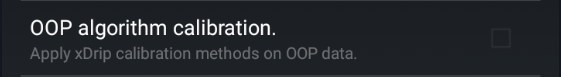
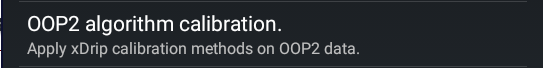
Changelog, OOP2
And catching up with previous changes

diff --git a/docs/changelog.md b/docs/changelog.md
@@ -1,0 +1,74 @@
+[ 2nd May 2022](https://github.com/NightscoutFoundation/xDrip/releases/tag/2022.05.02)	[Libre 2 native calibration](../use/misc/#oop2)
+
+[ 1st May 2022](https://github.com/NightscoutFoundation/xDrip/releases/tag/2022.05.01b)	More profile import handling/sounds work
+
+[ 1st May 2022](https://github.com/NightscoutFoundation/xDrip/releases/tag/2022.05.01)	Update profile import timezone handling
+
+[30th Apr 2022 ](https://github.com/NightscoutFoundation/xDrip/releases/tag/2022.04.30)	[Enable/disable AAPS import profile sounds](../use/interapp/#receiving-from-nsclient)
+
+[29th Apr 2022](https://github.com/NightscoutFoundation/xDrip/releases/tag/2022.04.29)	New Crowdin updates
+
+[28th Apr 2022](https://github.com/NightscoutFoundation/xDrip/releases/tag/2022.04.28)	[Import profile from AAPS](../use/predictions/#carb-ratio-and-insulin-sensitivity)
+
+[27th Apr 2022](https://github.com/NightscoutFoundation/xDrip/releases/tag/2022.04.27)	**Libre Pro support** (NFC and bridges)
+
+[26th Apr 2022](https://github.com/NightscoutFoundation/xDrip/releases/tag/2022.04.26)	New Crowdin updates
+
+[25th Apr 2022](https://github.com/NightscoutFoundation/xDrip/releases/tag/2022.04.25)	Improve dynamic warmup time reporting
+
+[22nd Apr 2022](https://github.com/NightscoutFoundation/xDrip/releases/tag/2022.04.22)	G6 dynamic warm up periods
+
+[20th Apr 2022](https://github.com/NightscoutFoundation/xDrip/releases/tag/2022.04.20)	Add option for [audio focus during alerts](../use/alarms/#audio-focus)
+
+[19th Apr 2022](https://github.com/NightscoutFoundation/xDrip/releases/tag/2022.04.19)	Libre/Dex calibration leak fix
+
+[15th Apr 2022](https://github.com/NightscoutFoundation/xDrip/releases/tag/2022.04.15)	cont'd
+
+[14th Apr 2022](https://github.com/NightscoutFoundation/xDrip/releases/tag/2022.04.14)	Libre log cleanup, prefs cleanup
+
+[12th Apr 2022](https://github.com/NightscoutFoundation/xDrip/releases/tag/2022.04.12)	Alert sound player improvement
+
+[11th Apr 2022](https://github.com/NightscoutFoundation/xDrip/releases/tag/2022.04.11)	**NovoPen support**, BG treatment to calibration leak fix
+
+[ 6th Apr 2022](https://github.com/NightscoutFoundation/xDrip/releases/tag/2022.04.06b)	B - Translation bug fix, BG treatment to calibration leak fix
+
+[ 6th Apr 2022](https://github.com/NightscoutFoundation/xDrip/releases/tag/2022.04.06)	Translation bug fix, [treatments](../use/display/#treatments-and-predictions-curves) and [flair](../use/display/#flair-colors) names changes
+
+[ 5th Apr 2022](https://github.com/NightscoutFoundation/xDrip/releases/tag/2022.04.05)	New Crowdin updates
+
+[ 4th Apr 2022](https://github.com/NightscoutFoundation/xDrip/releases/tag/2022.04.04)	Min Android version 4.4, added stack traces in logs
+
+[ 3rd Apr 2022](https://github.com/NightscoutFoundation/xDrip/releases/tag/2022.04.03)	New Crowdin updates, stack trace log
+
+[28th Mar 2022](https://github.com/NightscoutFoundation/xDrip/releases/tag/2022.03.28)	New Crowdin updates, OOP2new native algorithm support
+
+[27th Mar 2022](https://github.com/NightscoutFoundation/xDrip/releases/tag/2022.03.27)	[OOP2new](../use/misc/#out-of-process-algorithm) native algorithm support
+
+[26th Mar 2022](https://github.com/NightscoutFoundation/xDrip/releases/tag/2022.03.26)	Reminders improvements, Java 11 compilation
+
+[17th Mar 2022](https://github.com/NightscoutFoundation/xDrip/releases/tag/2022.03.17)	Reminders features improvements
+
+[11th Mar 2022](https://github.com/NightscoutFoundation/xDrip/releases/tag/2022.03.11)	cont'd
+
+[ 2nd Mar 2022](https://github.com/NightscoutFoundation/xDrip/releases/tag/2022.03.02)	New Crowdin updates, NFC scan improvement
+
+[25th Feb 2022](https://github.com/NightscoutFoundation/xDrip/releases/tag/2022.02.25b)	New Crowdin updates
+
+[25th Feb 2022](https://github.com/NightscoutFoundation/xDrip/releases/tag/2022.02.25)	New Crowdin updates
+
+[15th Feb 2022](https://github.com/NightscoutFoundation/xDrip/releases/tag/2022.02.15)	Gradle actions upgrade to V2, manual slot selection
+
+[ 9th Feb 2022](https://github.com/NightscoutFoundation/xDrip/releases/tag/2022.02.09)	New Crowdin updates, Dex share authentication fix
+
+[31st Jan 2022](https://github.com/NightscoutFoundation/xDrip/releases/tag/2022.01.31)	Gradle, date, external status fixed
+
+[28th Jan 2022](https://github.com/NightscoutFoundation/xDrip/releases/tag/2022.01.28)	Date parsing fix, G6 backfill fix for Wear
+
+[27th Jan 2022](https://github.com/NightscoutFoundation/xDrip/releases/tag/2022.01.27)	Make preferences translatable, add grams to carbs treatments
+
+[25th Jan 2022](https://github.com/NightscoutFoundation/xDrip/releases/tag/2022.01.25)	New Crowdin updates, persistent high test fix
+
+[15th Jan 2022](https://github.com/NightscoutFoundation/xDrip/releases/tag/2022.01.15)	Build mechanisms fixes
+
+[14th Jan 2022](https://github.com/NightscoutFoundation/xDrip/releases/tag/2022.01.14)	AAPS TBR fix, no backfill before sensor start (**required for AAPS 3.0**)
+

diff --git a/docs/use/misc.md b/docs/use/misc.md
@@ -52,13 +52,17 @@ If the external app doesn't exist on your phone or doesn't provide the informati
 
 <img src="../images/M-S-LCS15h.png" style="zoom:75%;" />
 
-*Deprecated* - For safety reasons you cannot calibrate OOP1 plugin values.
+##### OOP2
 
-<img src="../images/M-S-LCS15i.png" style="zoom:75%;" />
+<img src="../images/M-S-LCS15i.png" style="zoom:78%;" />
 
-OOP2 plugin allows calibration. If deselected, a vendor like BG value will be provided by the algorithm.
+You can use OOP2 in different ways:
 
-<img src="../images/M-S-LCS15i2.png" style="zoom:75%;" />
+- No calibration generates vendor like values (native mode) without the need of calibrating
+- Calibrate based on raw uses the sensor raw data (no temperature correction) like Libre 1
+- Calibrate based on glucose allows you to apply xDrip+ calibration on native values (usually when the sensor is inaccurate)
+
+<img src="../images/M-S-LCS15i2.png" style="zoom:78%;" />
 
 Smooth Libre data averages on 5 measurement. This will also delay readings.  
 If this option doesn't bring the improvement expected, also try [Smooth Sensor Noise](../display/#smooth-sensor-noise).
@@ -75,4 +79,4 @@ This option is not available at all.
 
 </br>
 
-[*Last modified 28/3/2022*](https://github.com/NightscoutFoundation/xDrip/releases/tag/2022.03.27)
+[*Last modified 2/5/2022*](https://github.com/NightscoutFoundation/xDrip/releases/tag/2022.05.02)

diff --git a/docs/use/OOP.md b/docs/use/OOP.md
@@ -37,12 +37,13 @@ Out Of process Algorithm must be [enabled](../misc/#out-of-process-algorithm) wh
 OOP2 provides decoding for the Libre 14 days US and the Libre 2 EU sensor, either for direct connection (Libre 2 EU only) or using a [compatible bridge](../../install/libreBT/#libre-and-bridge).
 
 !!!info "Calibration is optional"  
-    By [default](../misc/#out-of-process-algorithm) you can calibrate if using OOP2.
+    You can either calibrate from raw data, not calibrate or add a calibration to native data.  
+    Check the [OOP2 settings](../misc/#oop2).
 
 The original version is available [here](https://drive.google.com/uc?id=1aeWvBiFCidOhreCMoW1S0ARa5HvNNf2m&export=download) but it is **recommended to use the [latest OOP2new](https://drive.google.com/file/d/1cRfUDzFRnLUnsn6gKaC2cibZrIY1oIb-/view?usp=sharing)**.
 
 !!!warning  
-    Out Of process Algorithm must be [disabled](../misc/#out-of-process-algorithm) when using OOP2.
+    Out Of process Libre Algorithm must be [disabled](../misc/#out-of-process-algorithm) when using OOP2.
 
 ### Auto-detection
 
@@ -70,4 +71,4 @@ When having data loss you can reduce the interval. The less the interval, the mo
 
 </br>
 
-[*Last modified 28/3/2022*](https://github.com/NightscoutFoundation/xDrip/releases/tag/2022.03.27)
+[*Last modified 2/5/2022*](https://github.com/NightscoutFoundation/xDrip/releases/tag/2022.05.02)

diff --git a/docs/use/display.md b/docs/use/display.md
@@ -46,17 +46,17 @@ Filtered values can be seen with sensors supporting raw data.
 
 ##### Treatments and predictions curves
 
-1. Treatment color (treatment main curve) active insulin
-2. Treatment color dark (small dotted line) insulin on board
+1. Insulin on board (treatment main curve)
+2. Insulin activity (small dotted line)
 
-<img src="../images/M-S-DS2e.png" style="zoom:75%;" />
+<img src="../images/M-S-DS2e.png" style="zoom:78%;" />
 
 <img src="../images/M-S-DS2e2.png" style="zoom:75%;" />
 
-1. Predictive color (main prediction graph)
-2. Predictive color dark (small dotted line) carbs on board
+1. Glucose prediction (main prediction graph)
+2. Carbs on board (small dotted line)
 
-<img src="../images/M-S-DS2f.png" style="zoom:75%;" />
+<img src="../images/M-S-DS2f.png" style="zoom:78%;" />
 
 <img src="../images/M-S-DS2f2.png" style="zoom:75%;" />
 
@@ -129,7 +129,7 @@ SMBs are icons decluttering the graph for micro-bolus treatments.
 
 If you want to put some color on the top and bottom bars of your Android screen, enable flair colors.
 
-<img src="../images/M-S-DS2p.png" style="zoom:75%;" />
+<img src="../images/M-S-DS2p.png" style="zoom:78%;" />
 
 <img src="../images/M-S-DS2p2.png" style="zoom:75%;" />
 

diff --git a/docs/use/predictions.md b/docs/use/predictions.md
@@ -66,7 +66,19 @@ You can display and edit your basal profile.
 
 <img src="../images/M-S-PS4f.png" style="zoom:78%;" />
 
+1. Select the profile you want to modify or view
+2. Export (not functional yet)
+3. Save locally
+
 <img src="../images/M-S-PS4f2.png" style="zoom:78%;" />
+
+To edit your basal profile:
+
+1.  Touch the basal hour bar you want to modify, it will turn orange
+2. Change the step if necessary
+3. Use the positive numbered box or the upwards arrow to increase
+4. Use the negative numbered box or the downwards arrow to decrease
+5. Use set, or double tap the bar to set the new value
 
 <img src="../images/M-S-PS4f3.png" style="zoom:78%;" />
 
